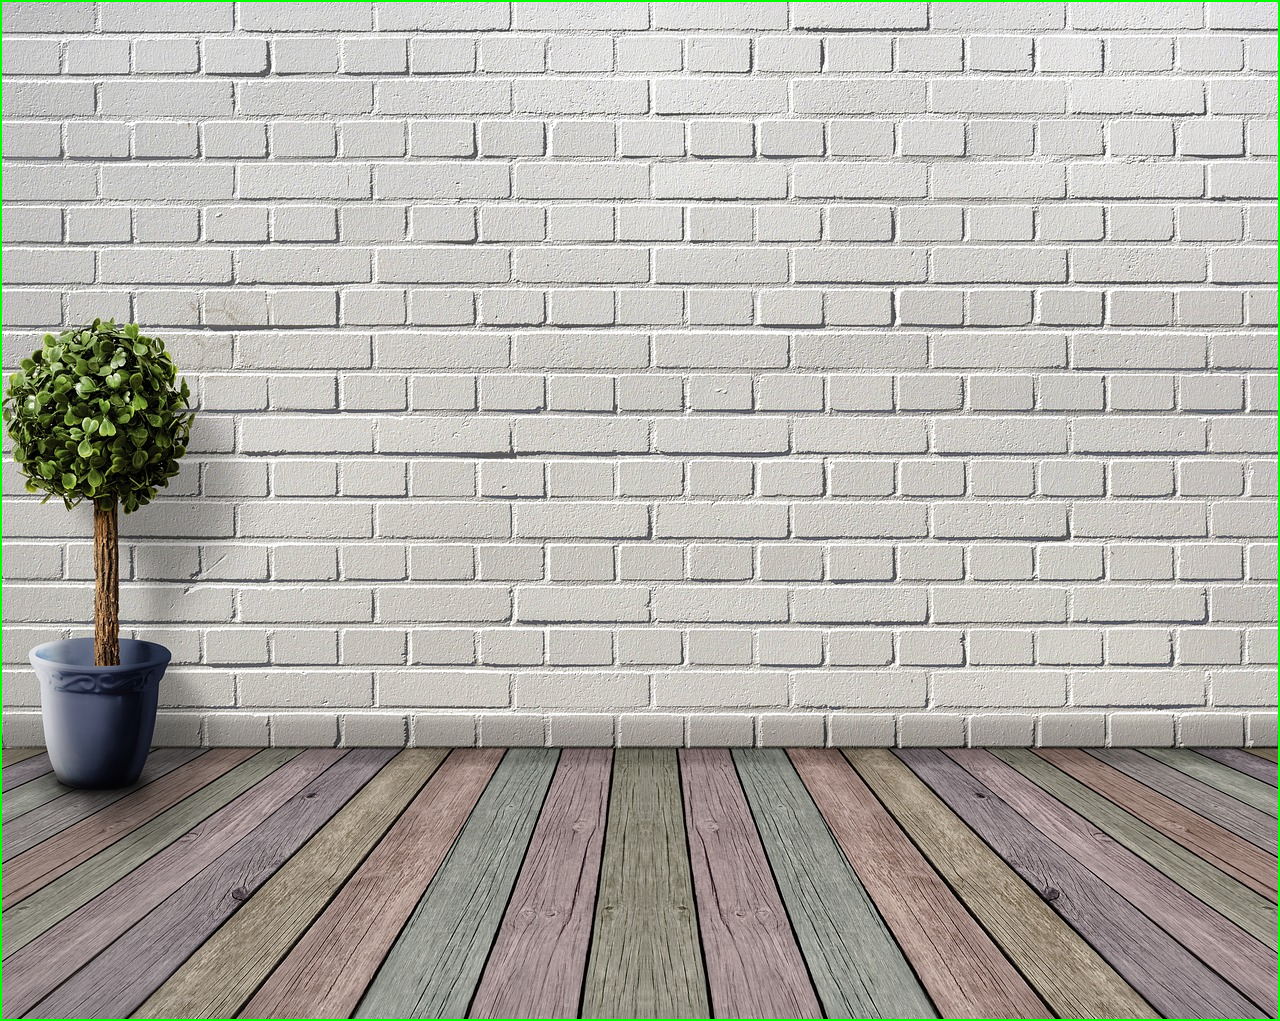
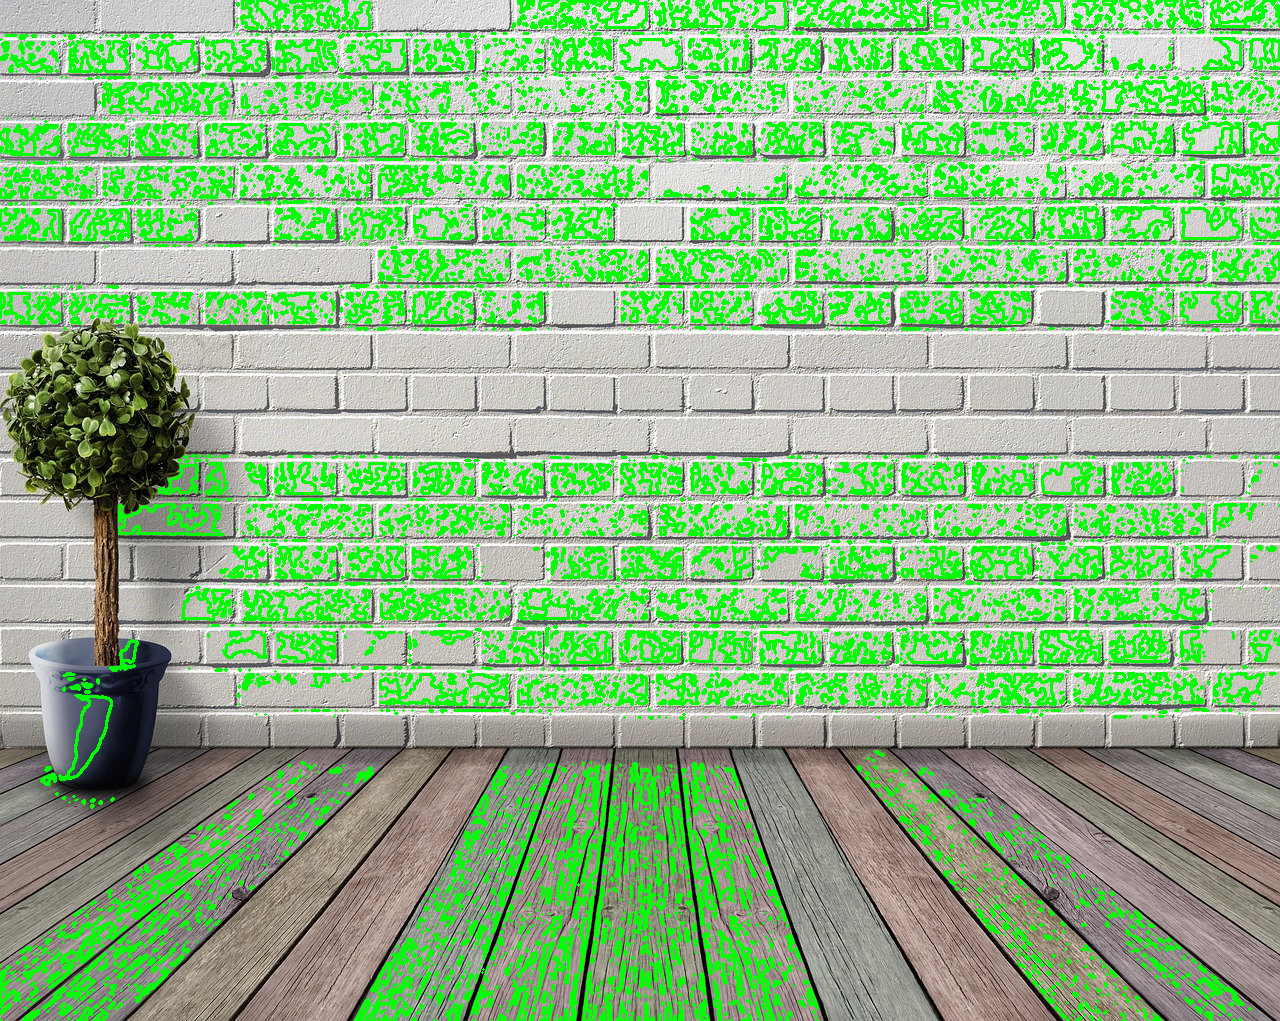
Custom tunning

diff --git a/RepaintCustom.py b/RepaintCustom.py
@@ -312,14 +312,14 @@ class CustomWallDetector:
         """
         print(f"[*] Detecting wall in: {image_path} with custom algorithm")
         
-        # 检查是否为纯墙面图像
-        filename = os.path.basename(image_path).lower()
-        if 'wall' in filename or 'brick' in filename:
-            print(f"[*] Detected wall-only image, using direct wall detection")
-            image = cv2.imread(image_path)
-            wall_mask = np.ones(image.shape[:2], dtype=np.uint8) * 255
-            self._create_visualization(image_path, wall_mask)
-            return wall_mask
+        # # 检查是否为纯墙面图像
+        # filename = os.path.basename(image_path).lower()
+        # if 'wall' in filename or 'brick' in filename:
+        #     print(f"[*] Detected wall-only image, using direct wall detection")
+        #     image = cv2.imread(image_path)
+        #     wall_mask = np.ones(image.shape[:2], dtype=np.uint8) * 255
+        #     self._create_visualization(image_path, wall_mask)
+        #     return wall_mask
         
         # 读取图像
         image = cv2.imread(image_path)
@@ -862,13 +862,13 @@ def parse_args():
                         help='批量处理输入目录中的所有图像')
     
     parser.add_argument('--color-tolerance', type=int, default=15,
-                        help='颜色相似度容差 (RGB差异)')
+                        help='颜色相似度容差 (RGB差异,default=15)')
     
     parser.add_argument('--shadow-tolerance', type=int, default=30,
-                        help='阴影/光照变化容差')
+                        help='阴影/光照变化容差, default=30')
     
     parser.add_argument('--min-region-size', type=int, default=1000,
-                        help='最小区域大小（以像素计）')
+                        help='最小区域大小（以像素计, default=1000）')
     
     return parser.parse_args()
 
